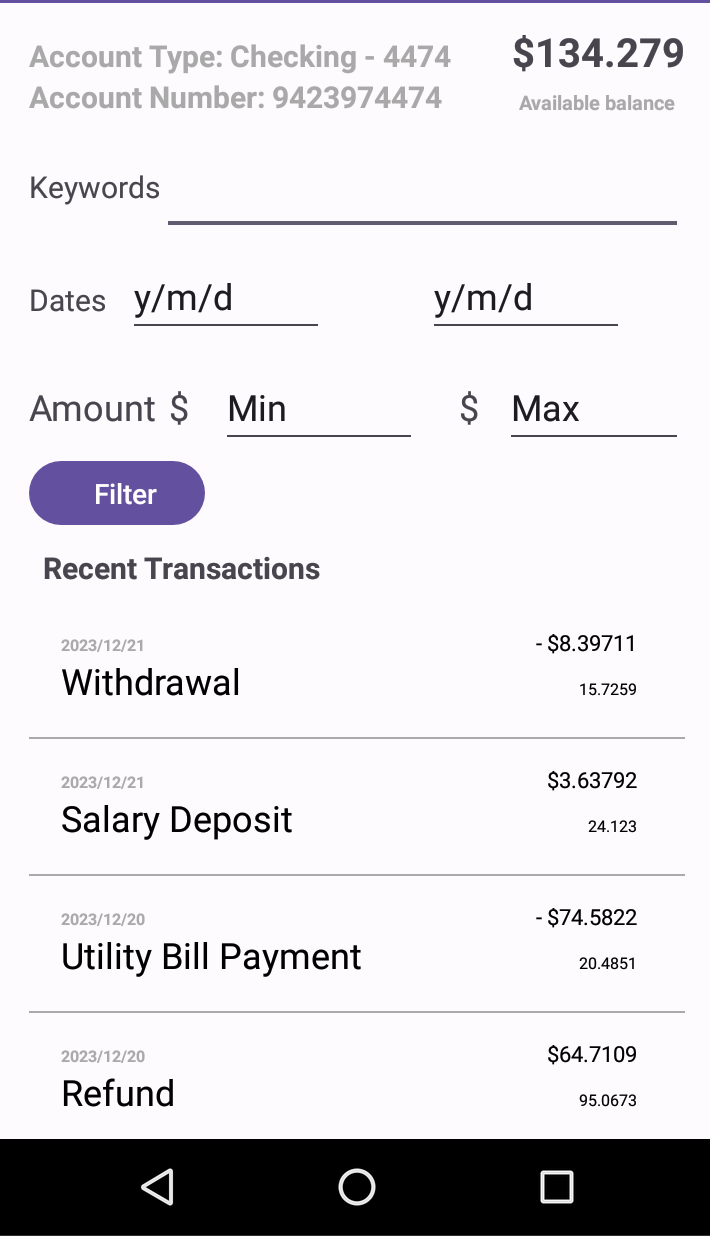
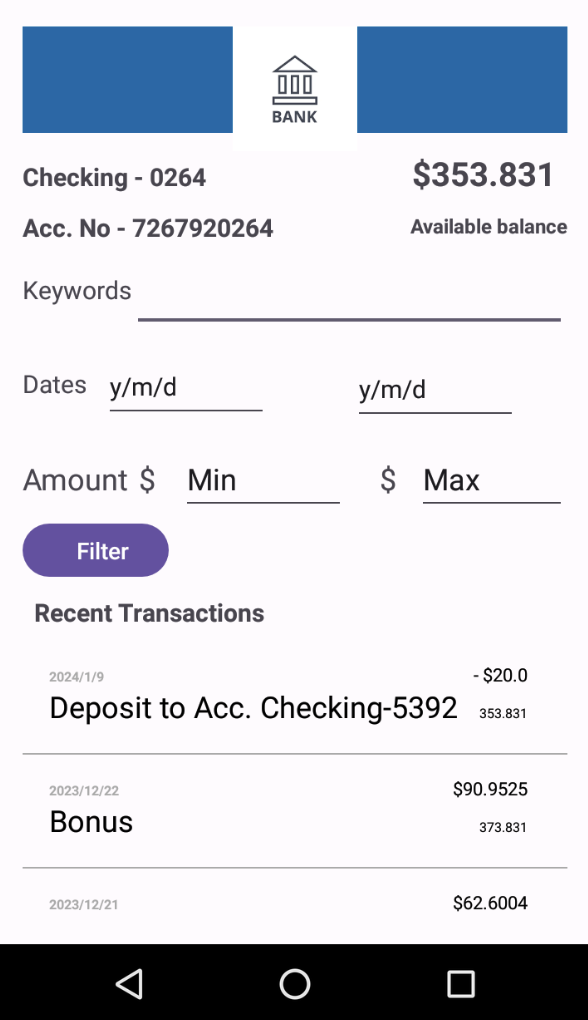
Further Improvements
- Configured HTTPS for secure server communication
- Added Logo header

diff --git a/app/src/main/java/com/example/banking/APIClient.java b/app/src/main/java/com/example/banking/APIClient.java
@@ -1,5 +1,7 @@
 package com.example.banking;
 
+import android.content.Context;
+
 import com.fasterxml.jackson.core.JsonProcessingException;
 import com.fasterxml.jackson.databind.JsonNode;
 import com.fasterxml.jackson.databind.ObjectMapper;
@@ -10,23 +12,38 @@ import java.io.InputStreamReader;
 import java.net.HttpURLConnection;
 import java.net.URL;
 
+import javax.net.ssl.HostnameVerifier;
+import javax.net.ssl.HttpsURLConnection;
+import javax.net.ssl.SSLContext;
+import javax.net.ssl.SSLSession;
+
 public class APIClient {
 
-    private static final String API_SERVER = "http://<FLASK_SERVER_IP_ADDRESS>:<PORT>";
+    private static final String API_SERVER = "https://<FLASK_SERVER_IP_ADDRESS>:<PORT>";
     HttpURLConnection urlConnection = null;
     private String requestMethod;
     private String result;
 
-    public APIClient() {};
+    private Context context;
+
+    public APIClient(Context context)
+    {
+        this.context = context;
+    };
 
     public JsonNode executeGetRequest(String endpoint) throws JsonProcessingException {
         try {
             URL url =  new URL(API_SERVER + endpoint);
-            urlConnection = (HttpURLConnection) url.openConnection();
+            HttpsURLConnection urlConnection = (HttpsURLConnection) url.openConnection();
+
+            SSLContext sslContext = SSLUtils.createSSLContext(this.context);
+            urlConnection.setSSLSocketFactory(sslContext.getSocketFactory());
+
             urlConnection.setRequestMethod("GET");
             urlConnection.setRequestProperty("Content-Type", "application/json");
 
             InputStream APIResponse = urlConnection.getInputStream();
+            System.out.println(APIResponse);
             result = readInputStream(APIResponse);
 
         } catch (Exception e) {
@@ -45,7 +62,11 @@ public class APIClient {
     public JsonNode executePostRequest(String endpoint, String postData) throws JsonProcessingException {
         try {
             URL url =  new URL(API_SERVER + endpoint);
-            urlConnection = (HttpURLConnection) url.openConnection();
+            HttpsURLConnection urlConnection = (HttpsURLConnection) url.openConnection();
+
+            SSLContext sslContext = SSLUtils.createSSLContext(this.context);
+            urlConnection.setSSLSocketFactory(sslContext.getSocketFactory());
+
             urlConnection.setRequestMethod("POST");
             urlConnection.setRequestProperty("Content-Type", "application/json");
 
@@ -54,7 +75,9 @@ public class APIClient {
             urlConnection.getOutputStream().write(postData.getBytes());
 
             InputStream APIResponse = urlConnection.getInputStream();
+            System.out.println(APIResponse);
             result = readInputStream(APIResponse);
+
 
         } catch (Exception e) {
             e.getMessage();

diff --git a/app/src/main/java/com/example/banking/SSLUtils.java b/app/src/main/java/com/example/banking/SSLUtils.java
@@ -1,0 +1,40 @@
+package com.example.banking;
+
+import android.content.Context;
+import java.io.InputStream;
+import java.security.KeyStore;
+import java.security.cert.CertificateFactory;
+import java.security.cert.X509Certificate;
+import java.util.Collections;
+
+import javax.net.ssl.SSLContext;
+import javax.net.ssl.TrustManagerFactory;
+
+public class SSLUtils {
+
+    public static SSLContext createSSLContext(Context context) {
+        try {
+            // Load the certificate from resources
+            CertificateFactory cf = CertificateFactory.getInstance("X.509");
+            InputStream certInputStream = context.getResources().openRawResource(R.raw.cert);
+            X509Certificate cert = (X509Certificate) cf.generateCertificate(certInputStream);
+
+            // Create a KeyStore containing the certificate
+            KeyStore keyStore = KeyStore.getInstance(KeyStore.getDefaultType());
+            keyStore.load(null, null);
+            keyStore.setCertificateEntry("myCertificate", cert);
+
+            // Create a TrustManager that trusts the certificate
+            TrustManagerFactory trustManagerFactory = TrustManagerFactory.getInstance(TrustManagerFactory.getDefaultAlgorithm());
+            trustManagerFactory.init(keyStore);
+
+            // Create an SSLContext that uses the TrustManager
+            SSLContext sslContext = SSLContext.getInstance("TLS");
+            sslContext.init(null, trustManagerFactory.getTrustManagers(), null);
+
+            return sslContext;
+        } catch (Exception e) {
+            throw new RuntimeException("Error loading certificate", e);
+        }
+    }
+}

diff --git a/app/src/main/java/com/example/banking/TransactionActivity.java b/app/src/main/java/com/example/banking/TransactionActivity.java
@@ -38,8 +38,8 @@ public class TransactionActivity extends AppCompatActivity {
         final TextView accountBalanceTextView = findViewById(R.id.accountBalanceTextView);
         final Button filterTransactionsButton = findViewById(R.id.filterButton);
 
-        accountTypeTextView.setText("Account Type: " + accountType);
-        accountNumberTextView.setText("Account Number: " + accountNumber);
+        accountTypeTextView.setText(accountType);
+        accountNumberTextView.setText("Acc. No - " + accountNumber);
         accountBalanceTextView.setText(accountBalance);
 
         final EditText keywordsEditText = findViewById(R.id.keywordsEditText);
@@ -48,7 +48,7 @@ public class TransactionActivity extends AppCompatActivity {
         final EditText minAmountEditText = findViewById(R.id.minAmountEditText);
         final EditText maxAmountEditText = findViewById(R.id.maxAmountEditText);
 
-        APIClient client = new APIClient();
+        APIClient client = new APIClient(getApplicationContext());
         JsonNode data = null;
         try {
             data = client.executeGetRequest("/account/" + accountId + "/transactions");
@@ -74,7 +74,7 @@ public class TransactionActivity extends AppCompatActivity {
                 String minAmount = minAmountEditText.getText().toString();
                 String maxAmount = maxAmountEditText.getText().toString();
 
-                APIClient client = new APIClient();
+                APIClient client = new APIClient(getApplicationContext());
                 JsonNode data = null;
                 try {
                     data = client.executeGetRequest(

diff --git a/app/src/main/java/com/example/banking/LoginActivity.java b/app/src/main/java/com/example/banking/LoginActivity.java
@@ -1,6 +1,7 @@
 package com.example.banking;
 
 import androidx.appcompat.app.AppCompatActivity;
+
 import com.fasterxml.jackson.core.JsonProcessingException;
 import com.fasterxml.jackson.databind.JsonNode;
 
@@ -40,7 +41,7 @@ public class LoginActivity extends AppCompatActivity {
                         String username = editUsernameText.getText().toString();
                         String password = editPasswordText.getText().toString();
 
-                        APIClient client = new APIClient();
+                        APIClient client = new APIClient(getApplicationContext());
                         String postData = "{\n    \"username\": \"" + username + "\",\n    \"password\": \"" + password + "\"\n}";
                         JsonNode data = null;
                         try {

diff --git a/app/src/main/java/com/example/banking/TransferActivity.java b/app/src/main/java/com/example/banking/TransferActivity.java
@@ -61,7 +61,7 @@ public class TransferActivity extends AppCompatActivity {
 
                         try {
 
-                            APIClient client = new APIClient();
+                            APIClient client = new APIClient(getApplicationContext());
                             data = client.executePostRequest("/transfer", postData);
                         } catch (JsonProcessingException e) {
                             throw new RuntimeException(e);

diff --git a/app/src/main/java/com/example/banking/AccountActivity.java b/app/src/main/java/com/example/banking/AccountActivity.java
@@ -31,7 +31,7 @@ public class AccountActivity extends AppCompatActivity {
 
         final Button transferButton = findViewById(R.id.transferButton);
 
-        APIClient client = new APIClient();
+        APIClient client = new APIClient(getApplicationContext());
         JsonNode data = null;
         try {
             data = client.executeGetRequest("/customer/" + customerId + "/accounts");

diff --git a/Readme.md b/Readme.md
@@ -7,7 +7,7 @@
 
 3. In APIClient.java, replace API_SERVER with your flask server's ip address and port.
    
-   e.g `http://<ip>:<port>`
+   e.g `https://<ip>:<port>`
 
    Note: Assign the private IP address instead of 127.0.0.1 as a workaround if Android Studio blocks
          traffic on localhost.
